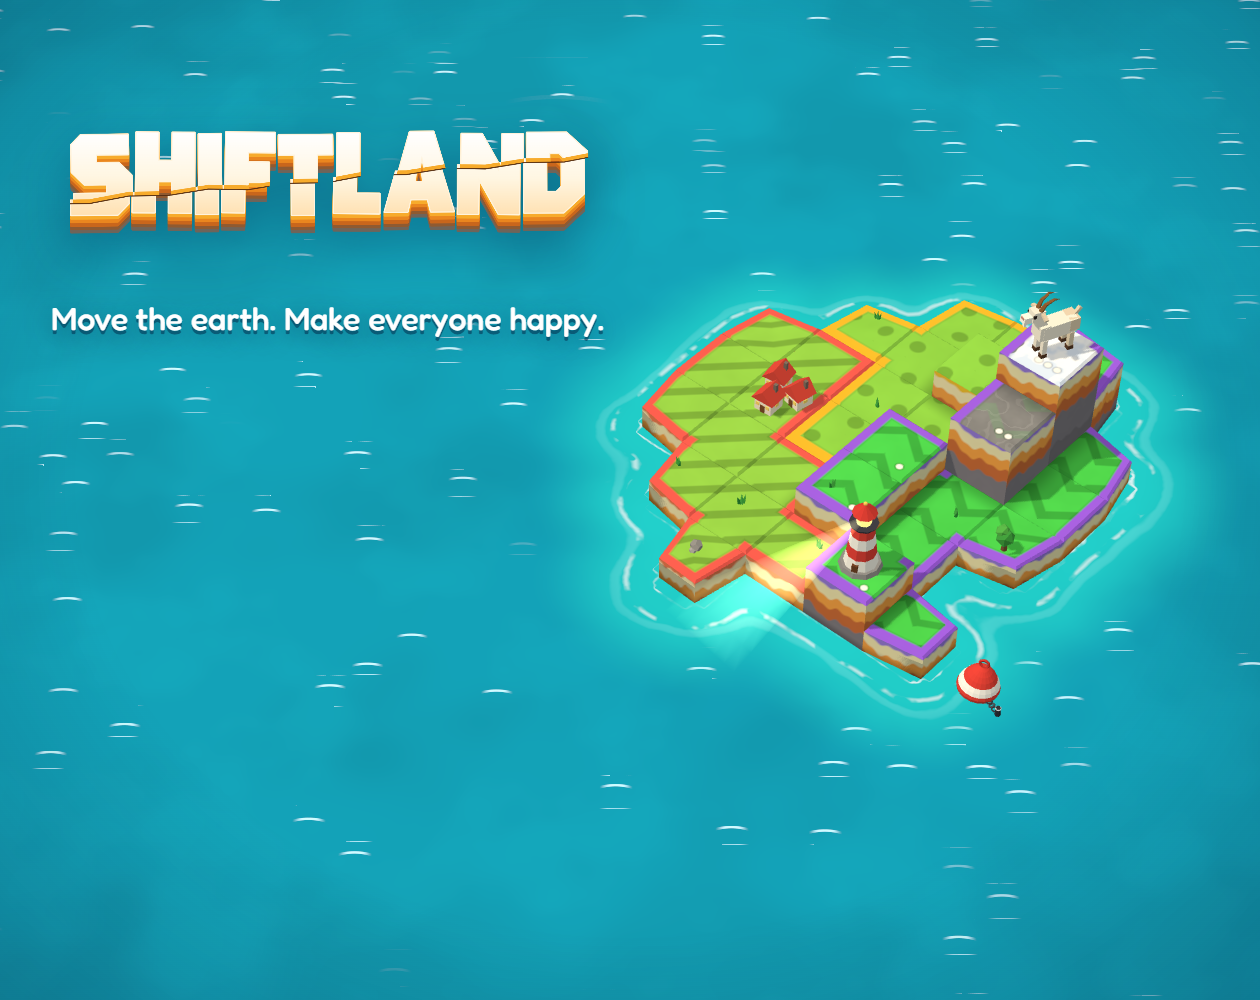
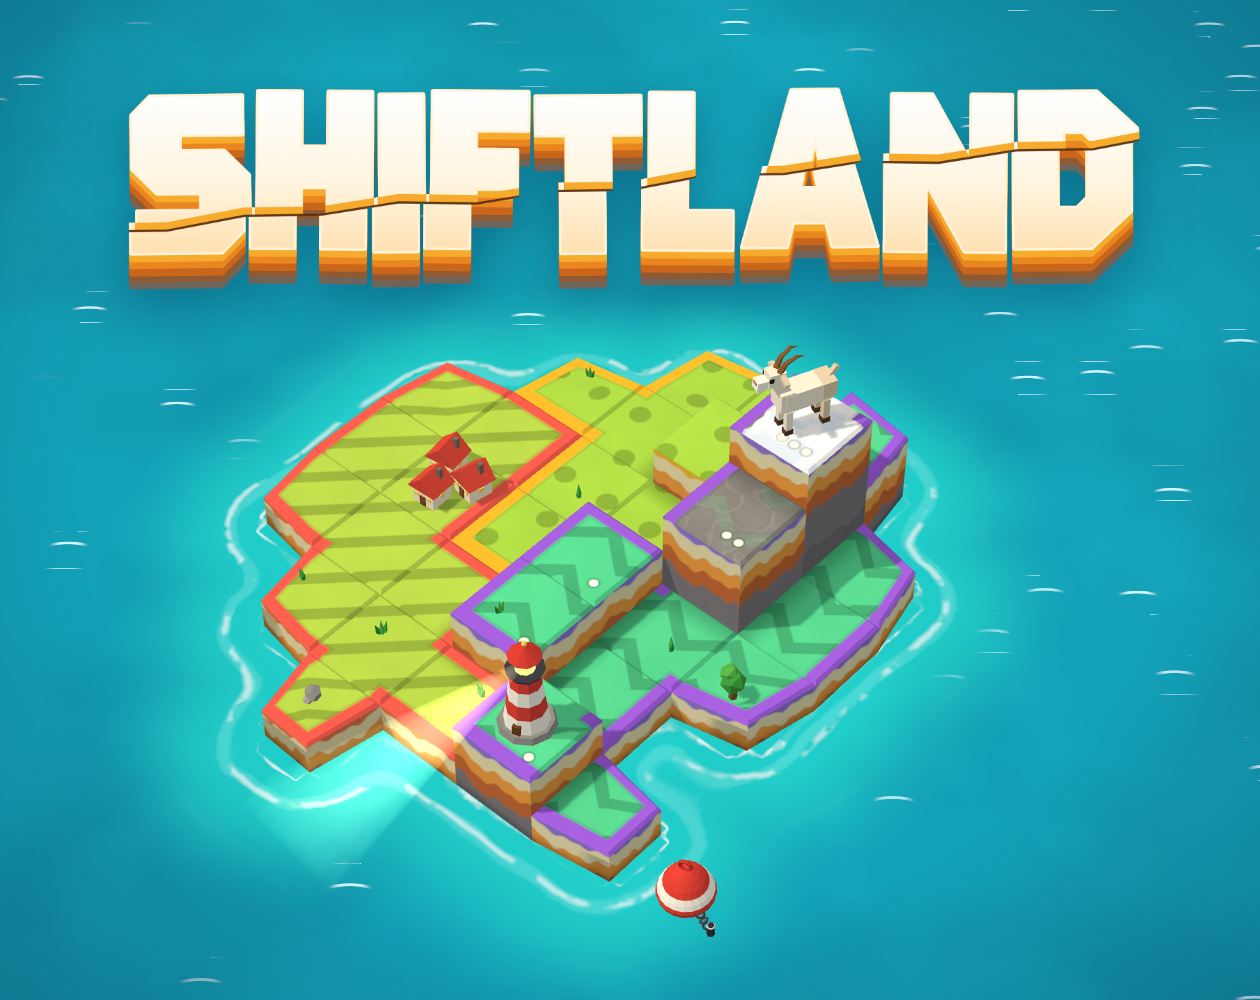
New cover rendered from the game; lake noise only where there is a lake
The old cover was mostly empty sea at thumbnail size. The ripples cost nothing on sea pixels now, and no-GPU frame rate matches the earlier build.

diff --git a/game/src/render/ocean.ts b/game/src/render/ocean.ts
@@ -170,15 +170,17 @@ const FRAG = /* glsl */`
     // lake: still, green-teal water, its own colour
     // a sandy rim and a green unlike any sea, so a lake can't be taken for the shallows
     // clear jade, luminous in the shallows: what an oasis longs for, where a dark green read as a swamp (playtest 15; concepts/lake-oasis-v1.png)
-    vec3 lake = mix(uLake + vec3(.05,.17,.09), uLake, smoothstep(.14,.3,d))*(.97+.06*n2);
-    // water, not a green floor: thin ripples drifting across it and a soft sheen (concept critic T1, Nov 6)
-    float rip = smoothstep(.93,.99,sin((p.x*.75-p.y*.66)*17.+fbm(p*2.3+vec2(t*.05,0.))*7.-t*.5));
-    lake += vec3(.26,.34,.3)*rip*smoothstep(.15,.3,d) + vec3(.05,.1,.08)*smoothstep(.5,.72,fbm(p*vec2(1.6,4.2)+vec2(t*.03,-t*.02)));
-    // a few small dark pads: pale round ones were the same mark as the plates' dots and the peaks' corner dots
-    vec2 lp = p*2.2; vec2 li = floor(lp); float lr = h21(li+5.);
-    lake = mix(lake, vec3(.1,.46,.25), step(.84,lr)*(1.-smoothstep(.12,.145,length(fract(lp)-.5-(vec2(h21(li+9.),h21(li+2.))-.5)*.4))));
-    lake = mix(lake, vec3(.8,.66,.4), smoothstep(.2,.13,d));
-    col = mix(col, lake, m.g);
+    if (m.g>.001) { // only where there is a lake: this noise ran for every pixel of sea
+      vec3 lake = mix(uLake + vec3(.05,.17,.09), uLake, smoothstep(.14,.3,d))*(.97+.06*n2);
+      // water, not a green floor: thin ripples drifting across it and a soft sheen (concept critic T1, Nov 6)
+      float rip = smoothstep(.93,.99,sin((p.x*.75-p.y*.66)*17.+fbm(p*2.3+vec2(t*.05,0.))*7.-t*.5));
+      lake += vec3(.26,.34,.3)*rip*smoothstep(.15,.3,d) + vec3(.05,.1,.08)*smoothstep(.45,.7,n2);
+      // a few small dark pads: pale round ones were the same mark as the plates' dots and the peaks' corner dots
+      vec2 lp = p*2.2; vec2 li = floor(lp); float lr = h21(li+5.);
+      lake = mix(lake, vec3(.1,.46,.25), step(.84,lr)*(1.-smoothstep(.12,.145,length(fract(lp)-.5-(vec2(h21(li+9.),h21(li+2.))-.5)*.4))));
+      lake = mix(lake, vec3(.8,.66,.4), smoothstep(.2,.13,d));
+      col = mix(col, lake, m.g);
+    }
     // rift floor before the sea reaches it
     // wet and dark, half sea already: bright sand laid on the water looks like a sheet of cardboard
     // the sea doesn't fade in over it, it runs in: the edge wanders, and a line of foam rides it

diff --git a/docs/release.md b/docs/release.md
@@ -31,7 +31,7 @@ Playwright, no account, on `https://thechosenvictor.itch.io/shiftland`: Chromium
 
 - The first run at a 1280x720 frame found itch's Follow, Add To Collection and Related games buttons over the game's top-right buttons, and the frame overflowing a 1024-wide window. Fixed on the page, not in the game: frame 960x540 and a 100 px banner above it (`itch-page.md`). Rerun: `box.y` 120, below the buttons, at all three sizes; the frame fits the 1024 window.
 - All 26 islands at 960x540 on the production build: 0 errors, HUD boxes logged (rerun Nov 6, session scratch `sweep540.mjs`; the 25-island contact sheets are `sweep540\sheet1.png`, `sheet2.png`).
-- Live build, Nov 6 at 13:41: upload 20321826, zip sha256 `f2feebaf...26987`, commit `f55392a`. The same three logged-out plays pass, 12 of 13 files are byte-identical, and `index.html` differs only by itch's `htmlgame.js` tag.
+- Live build, Nov 6 at 14:15: upload 20322285, zip sha256 `17060444...08252`, commit `c6f876f`, with screenshots and splash re-rendered and matched to `press/` by hash. The same three logged-out plays pass, 12 of 13 files are byte-identical, and `index.html` differs only by itch's `htmlgame.js` tag.
 - Firefox logs `NotSupportedError: Operation is not supported` when itch's fullscreen button is clicked (3 of 3 runs with the click, 0 of 4 without). It is an unhandled rejection on itch's top page, not in the game's frame, and fullscreen still works. Not ours to fix.
 - Served files: 12 of the zip's 13 files are byte-identical on itch's server; `index.html` differs only by the one `htmlgame.js` tag itch appends.
 

diff --git a/docs/itch-page.md b/docs/itch-page.md
@@ -49,5 +49,5 @@ Source: github.com/vsolano9/shiftland. All rights reserved: the code is public t
   - Theme: "Plate tectonics: every move shifts a piece of the island. Push a plate into its neighbour and the land rises; pull it away and the sea pours in."
   - AI usage: Code, Art / graphics / animation, Music / sound effects / voice, Writing, Game design, Testing. Extent: "Almost everything - predominantly AI-generated". This form asks how AI was used during development, so art and sound are ticked here (AI wrote the code that makes them, and made the concept images); itch's own form asks about generated assets in the build, so those stay unticked there.
   - An edit to the description or the island count on the page should also be made here and through "Edit this submission".
-- Cover: `press/cover.png`, 1260×1000 for itch's 630×500.
+- Cover: `press/cover.png`, 1260×1000 for itch's 630×500, rendered from the game by `npm run press` (logo over the title island, large because raters see it as a thumbnail; the first cover was mostly empty sea).
 - Screenshots, in page order: `press/shot1-preview.png` (a shift held, with its preview), `shot2-desert.png` and `shot3-tundra.png` (islands settled), `shot4-map.png` (the map), `push.gif` (a push raising a goat's peak). `npm run press` re-renders shots 1-4 from the current build; rerun it and re-upload when an island count or number changes.
